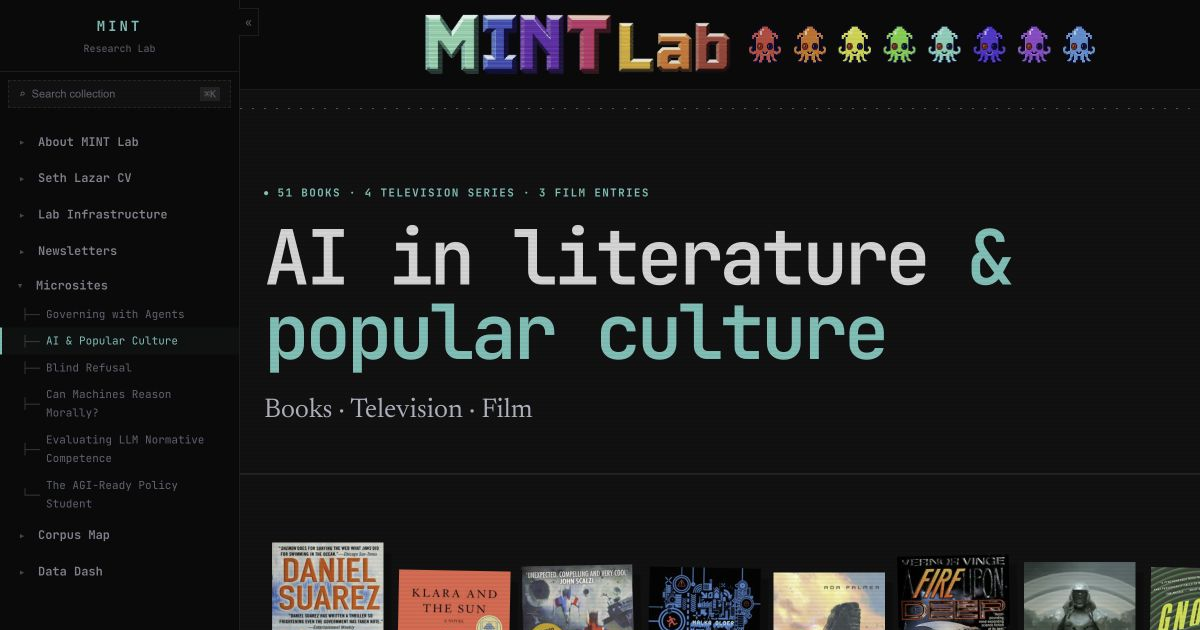
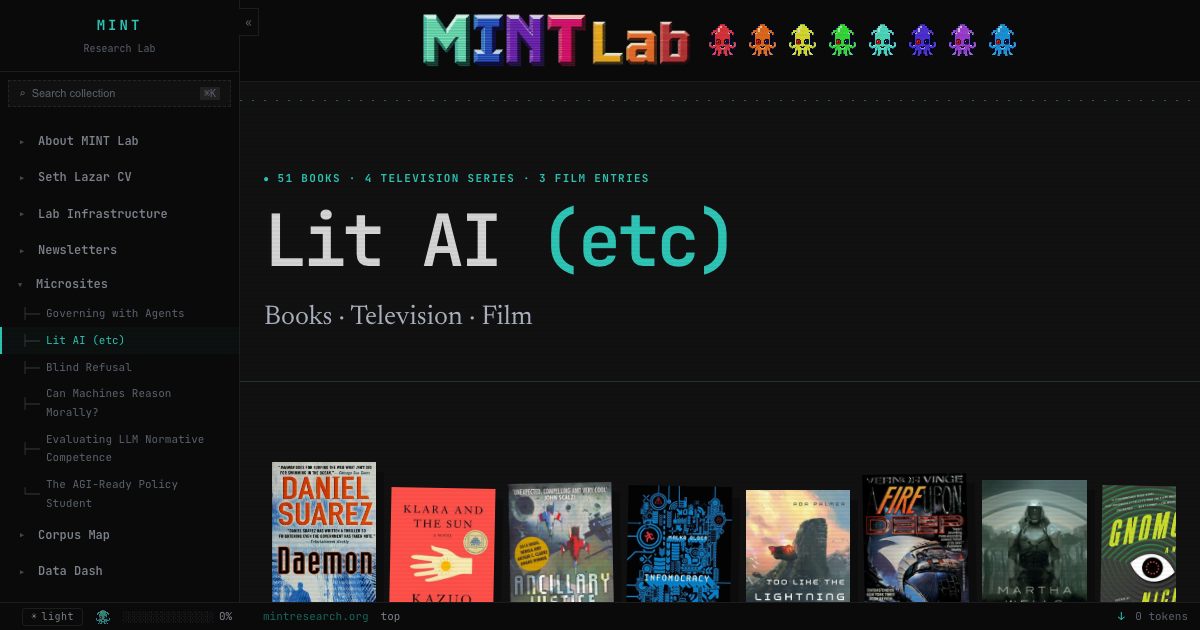
Rename AI culture collection to Lit AI

diff --git a/public/ai-culture/index.html b/public/ai-culture/index.html
@@ -3,16 +3,16 @@
 <head>
   <meta charset="UTF-8">
   <meta name="viewport" content="width=device-width, initial-scale=1.0, viewport-fit=cover">
-  <title>AI in Literature &amp; Popular Culture — MINT Lab</title>
-  <meta name="description" content="51 books, 4 television series, and 3 film entries about artificial intelligence and technological transformation.">
-  <meta property="og:title" content="AI in Literature &amp; Popular Culture — MINT Lab">
-  <meta property="og:description" content="51 books, 4 television series, and 3 film entries about artificial intelligence and technological transformation.">
+  <title>Lit AI (etc) — MINT Lab</title>
+  <meta name="description" content="51 books, 4 television series, and 3 films.">
+  <meta property="og:title" content="Lit AI (etc) — MINT Lab">
+  <meta property="og:description" content="51 books, 4 television series, and 3 films.">
   <meta property="og:type" content="website">
   <meta property="og:url" content="https://mintresearch.org/ai-culture/">
   <meta property="og:image" content="https://mintresearch.org/assets/ai-culture/og-ai-culture.png">
   <meta name="twitter:card" content="summary_large_image">
-  <meta name="twitter:title" content="AI in Literature &amp; Popular Culture — MINT Lab">
-  <meta name="twitter:description" content="51 books, 4 television series, and 3 film entries about artificial intelligence and technological transformation.">
+  <meta name="twitter:title" content="Lit AI (etc) — MINT Lab">
+  <meta name="twitter:description" content="51 books, 4 television series, and 3 films.">
   <meta name="twitter:image" content="https://mintresearch.org/assets/ai-culture/og-ai-culture.png">
   <link rel="canonical" href="https://mintresearch.org/ai-culture/">
   <link rel="icon" type="image/x-icon" href="/favicon.ico">
@@ -45,7 +45,7 @@
       <noscript>
         <a class="nav-link nav-page" href="/">About MINT Lab</a>
         <a class="nav-link nav-page" href="/governing-with-agents/">Governing with Agents</a>
-        <a class="nav-link nav-page active" href="/ai-culture/" aria-current="page">AI &amp; Popular Culture</a>
+        <a class="nav-link nav-page active" href="/ai-culture/" aria-current="page">Lit AI (etc)</a>
       </noscript>
     </div>
   </nav>
@@ -62,7 +62,7 @@
     <header class="collection-hero">
       <div class="collection-shell">
         <span class="collection-kicker">51 books · 4 television series · 3 film entries</span>
-        <h1>AI in literature <span>&amp; popular culture</span></h1>
+        <h1>Lit AI <span>(etc)</span></h1>
         <p class="collection-deck">Books · Television · Film</p>
       </div>
     </header>
@@ -117,12 +117,12 @@
           <p>Required: title, medium, source link, and reason for inclusion. MINT reviews submissions before publication.</p>
         </div>
         <form class="suggestion-form" action="https://formsubmit.co/f3ed156ef75fc12f2395ba0d338cc6ce" method="POST">
-          <input type="hidden" name="_subject" value="Suggestion for AI in Literature &amp; Popular Culture">
+          <input type="hidden" name="_subject" value="Suggestion for Lit AI (etc)">
           <input type="hidden" name="_captcha" value="true">
           <input type="hidden" name="_next" value="https://mintresearch.org/ai-culture/?submitted=1#suggest">
           <input type="hidden" name="_template" value="table">
           <input type="text" name="_honey" tabindex="-1" autocomplete="off" style="position:absolute;left:-9999px" aria-hidden="true">
-          <input type="hidden" name="Collection" value="AI in Literature &amp; Popular Culture">
+          <input type="hidden" name="Collection" value="Lit AI (etc)">
           <div class="form-field"><label for="culture-title">Title</label><input id="culture-title" name="Title" required></div>
           <div class="form-field"><label for="culture-medium">Medium</label><select id="culture-medium" name="Medium"><option>Book</option><option>Television</option><option>Film</option><option>Game</option><option>Other</option></select></div>
           <div class="form-field"><label for="culture-source">Source link</label><input id="culture-source" name="Source URL" type="url" required placeholder="https://"></div>

diff --git a/public/agent-reports/index.html b/public/agent-reports/index.html
@@ -2,7 +2,7 @@
 <summary class="nav-link nav-page nav-group"><span class="nav-mark">▸</span> Microsites</summary>
 <div class="nav-sections">
 <a class="nav-link nav-section" href="/governing-with-agents/"><span class="nav-mark">├──</span> Governing with Agents</a>
-<a class="nav-link nav-section" href="/ai-culture/"><span class="nav-mark">├──</span> AI &amp; Popular Culture</a>
+<a class="nav-link nav-section" href="/ai-culture/"><span class="nav-mark">├──</span> Lit AI (etc)</a>
 <a class="nav-link nav-section" href="https://blindrefusal.mintresearch.org/"><span class="nav-mark">├──</span> Blind Refusal</a>
 <a class="nav-link nav-section" href="/lab-overview/"><span class="nav-mark">├──</span> Can Machines Reason Morally?</a>
 <a class="nav-link nav-section" href="/nc/"><span class="nav-mark">├──</span> Evaluating LLM Normative Competence</a>

diff --git a/public/corpus-map/index.html b/public/corpus-map/index.html
@@ -4,7 +4,7 @@
 <summary class="nav-link nav-page nav-group"><span class="nav-mark">▸</span> Microsites</summary>
 <div class="nav-sections">
 <a class="nav-link nav-section" href="/governing-with-agents/"><span class="nav-mark">├──</span> Governing with Agents</a>
-<a class="nav-link nav-section" href="/ai-culture/"><span class="nav-mark">├──</span> AI &amp; Popular Culture</a>
+<a class="nav-link nav-section" href="/ai-culture/"><span class="nav-mark">├──</span> Lit AI (etc)</a>
 <a class="nav-link nav-section" href="https://blindrefusal.mintresearch.org/"><span class="nav-mark">├──</span> Blind Refusal</a>
 <a class="nav-link nav-section" href="/lab-overview/"><span class="nav-mark">├──</span> Can Machines Reason Morally?</a>
 <a class="nav-link nav-section" href="/nc/"><span class="nav-mark">├──</span> Evaluating LLM Normative Competence</a>

diff --git a/public/cv/index.html b/public/cv/index.html
@@ -2,7 +2,7 @@
 <summary class="nav-link nav-page nav-group"><span class="nav-mark">▸</span> Microsites</summary>
 <div class="nav-sections">
 <a class="nav-link nav-section" href="/governing-with-agents/"><span class="nav-mark">├──</span> Governing with Agents</a>
-<a class="nav-link nav-section" href="/ai-culture/"><span class="nav-mark">├──</span> AI &amp; Popular Culture</a>
+<a class="nav-link nav-section" href="/ai-culture/"><span class="nav-mark">├──</span> Lit AI (etc)</a>
 <a class="nav-link nav-section" href="https://blindrefusal.mintresearch.org/"><span class="nav-mark">├──</span> Blind Refusal</a>
 <a class="nav-link nav-section" href="/lab-overview/"><span class="nav-mark">├──</span> Can Machines Reason Morally?</a>
 <a class="nav-link nav-section" href="/nc/"><span class="nav-mark">├──</span> Evaluating LLM Normative Competence</a>

diff --git a/public/data-dash/index.html b/public/data-dash/index.html
@@ -4,7 +4,7 @@
 <summary class="nav-link nav-page nav-group"><span class="nav-mark">▸</span> Microsites</summary>
 <div class="nav-sections">
 <a class="nav-link nav-section" href="/governing-with-agents/"><span class="nav-mark">├──</span> Governing with Agents</a>
-<a class="nav-link nav-section" href="/ai-culture/"><span class="nav-mark">├──</span> AI &amp; Popular Culture</a>
+<a class="nav-link nav-section" href="/ai-culture/"><span class="nav-mark">├──</span> Lit AI (etc)</a>
 <a class="nav-link nav-section" href="https://blindrefusal.mintresearch.org/"><span class="nav-mark">├──</span> Blind Refusal</a>
 <a class="nav-link nav-section" href="/lab-overview/"><span class="nav-mark">├──</span> Can Machines Reason Morally?</a>
 <a class="nav-link nav-section" href="/nc/"><span class="nav-mark">├──</span> Evaluating LLM Normative Competence</a>

diff --git a/public/index.html b/public/index.html
@@ -2,7 +2,7 @@
 <summary class="nav-link nav-page nav-group"><span class="nav-mark">▸</span> Microsites</summary>
 <div class="nav-sections">
 <a class="nav-link nav-section" href="/governing-with-agents/"><span class="nav-mark">├──</span> Governing with Agents</a>
-<a class="nav-link nav-section" href="/ai-culture/"><span class="nav-mark">├──</span> AI &amp; Popular Culture</a>
+<a class="nav-link nav-section" href="/ai-culture/"><span class="nav-mark">├──</span> Lit AI (etc)</a>
 <a class="nav-link nav-section" href="https://blindrefusal.mintresearch.org/"><span class="nav-mark">├──</span> Blind Refusal</a>
 <a class="nav-link nav-section" href="/lab-overview/"><span class="nav-mark">├──</span> Can Machines Reason Morally?</a>
 <a class="nav-link nav-section" href="/nc/"><span class="nav-mark">├──</span> Evaluating LLM Normative Competence</a>

diff --git a/public/newsletter/index.html b/public/newsletter/index.html
@@ -2,7 +2,7 @@
 <summary class="nav-link nav-page nav-group"><span class="nav-mark">▸</span> Microsites</summary>
 <div class="nav-sections">
 <a class="nav-link nav-section" href="/governing-with-agents/"><span class="nav-mark">├──</span> Governing with Agents</a>
-<a class="nav-link nav-section" href="/ai-culture/"><span class="nav-mark">├──</span> AI &amp; Popular Culture</a>
+<a class="nav-link nav-section" href="/ai-culture/"><span class="nav-mark">├──</span> Lit AI (etc)</a>
 <a class="nav-link nav-section" href="https://blindrefusal.mintresearch.org/"><span class="nav-mark">├──</span> Blind Refusal</a>
 <a class="nav-link nav-section" href="/lab-overview/"><span class="nav-mark">├──</span> Can Machines Reason Morally?</a>
 <a class="nav-link nav-section" href="/nc/"><span class="nav-mark">├──</span> Evaluating LLM Normative Competence</a>

diff --git a/public/assets/mint-site-nav.v1.js b/public/assets/mint-site-nav.v1.js
@@ -93,7 +93,7 @@
       label: 'Microsites',
       children: [
         { id: 'governing-with-agents', type: 'page', href: '/governing-with-agents/', label: 'Governing with Agents' },
-        { id: 'ai-culture', type: 'page', href: '/ai-culture/', label: 'AI & Popular Culture' },
+        { id: 'ai-culture', type: 'page', href: '/ai-culture/', label: 'Lit AI (etc)' },
         { id: 'blind-refusal', type: 'page', href: 'https://blindrefusal.mintresearch.org/', label: 'Blind Refusal' },
         { id: 'moral-reasoning', type: 'page', href: '/lab-overview/', label: 'Can Machines Reason Morally?' },
         { id: 'normative-competence', type: 'page', href: '/nc/', label: 'Evaluating LLM Normative Competence' },

diff --git a/src/data/navigation.ts b/src/data/navigation.ts
@@ -93,7 +93,7 @@ export const siteNav: PageNav[] = [
     groupOnly: true,
     sections: [
       { href: "/governing-with-agents/", label: "Governing with Agents" },
-      { href: "/ai-culture/", label: "AI & Popular Culture" },
+      { href: "/ai-culture/", label: "Lit AI (etc)" },
       { href: "https://blindrefusal.mintresearch.org/", label: "Blind Refusal" },
       { href: "/lab-overview/", label: "Can Machines Reason Morally?" },
       { href: "/nc/", label: "Evaluating LLM Normative Competence" },

diff --git a/public/governing-with-agents/index.html b/public/governing-with-agents/index.html
@@ -45,7 +45,7 @@
       <noscript>
         <a class="nav-link nav-page" href="/">About MINT Lab</a>
         <a class="nav-link nav-page active" href="/governing-with-agents/" aria-current="page">Governing with Agents</a>
-        <a class="nav-link nav-page" href="/ai-culture/">AI &amp; Popular Culture</a>
+        <a class="nav-link nav-page" href="/ai-culture/">Lit AI (etc)</a>
       </noscript>
     </div>
   </nav>

diff --git a/public/guide/index.html b/public/guide/index.html
@@ -219,7 +219,7 @@
               <span class="nav-mark">├──</span> Governing with Agents
             </a>
             <a class="nav-link nav-section" href="/ai-culture/">
-              <span class="nav-mark">├──</span> AI &amp; Popular Culture
+              <span class="nav-mark">├──</span> Lit AI (etc)
             </a>
             <a
               class="nav-link nav-section"

diff --git a/README.md b/README.md
@@ -86,7 +86,7 @@ microsite, opens automatically for the active microsite, and can be toggled as
 an accessible button. Its public leaves are currently:
 
 - `Governing with Agents` — `/governing-with-agents/`
-- `AI & Popular Culture` — `/ai-culture/`
+- `Lit AI (etc)` — `/ai-culture/`
 - `Blind Refusal` — `https://blindrefusal.mintresearch.org/`
 - `Can Machines Reason Morally?` — `/lab-overview/`
 - `Evaluating LLM Normative Competence` — `/nc/`
